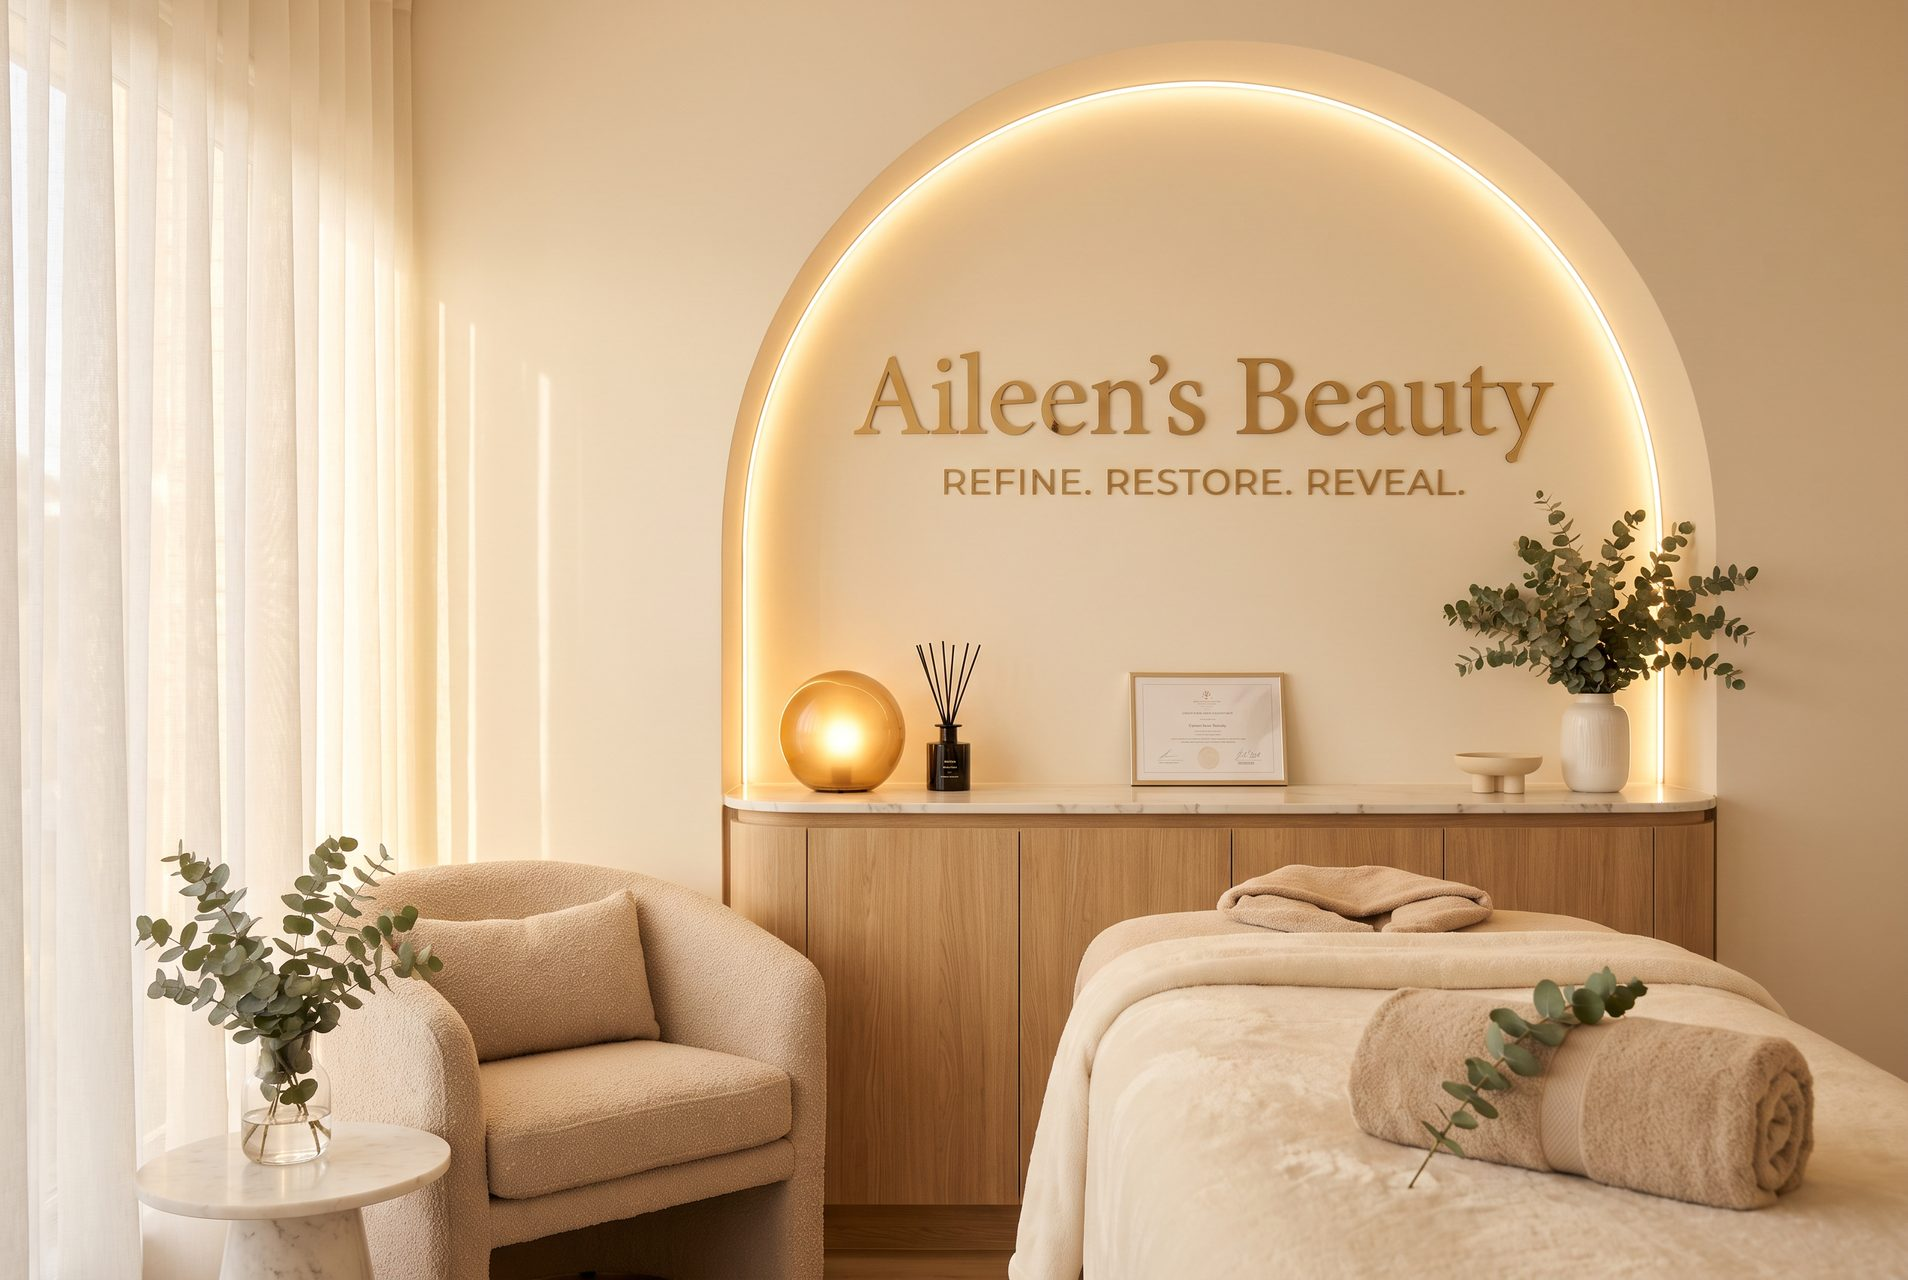
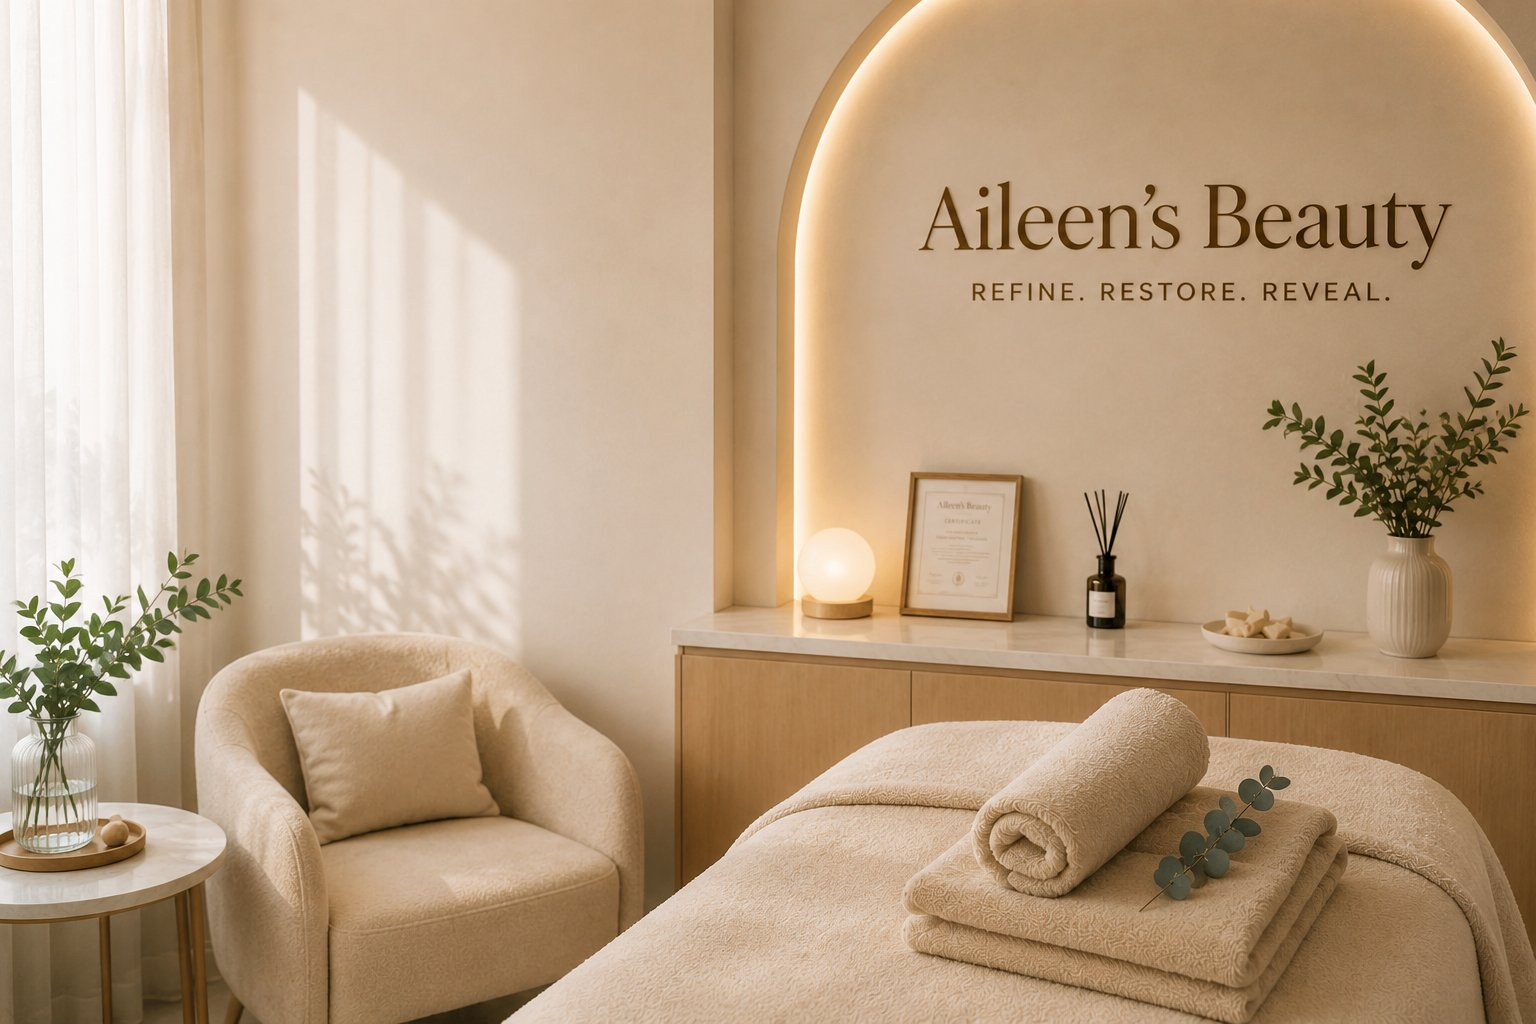
Use real client results and the studio's own photos, fully self-hosted
- Results slider now shows a real Aileen's Beauty client (before/after
  photos from the studio's library), full-width wide format
- 'The Studio' card and booking background use the studio's actual
  branded room photo
- All imagery self-hosted under aileens/assets/img (no CDN hotlinks),
  optimized progressive JPEGs
- Real horizontal logo lockup kept at assets/img/logo-lockup.jpg
- Asset-fetch workflow removed now that its job is done

Claude-Session: https://claude.ai/code/session_018p61CQwo6b1TPoywpLtEmd

diff --git a/aileens/index.html b/aileens/index.html
@@ -713,14 +713,13 @@
 
   /* ---------- before/after ---------- */
   .ba-wrap {
-    display: grid;
-    grid-template-columns: 0.9fr 1.1fr;
-    gap: clamp(48px, 7vw, 110px);
-    align-items: center;
+    display: flex;
+    flex-direction: column;
+    gap: 48px;
   }
   .ba-slider {
     position: relative;
-    aspect-ratio: 3 / 4;
+    aspect-ratio: 1600 / 664;
     overflow: hidden;
     background: var(--sand);
     user-select: none;
@@ -1285,7 +1284,7 @@
 
 <!-- ============ MANIFESTO ============ -->
 <section class="manifesto" aria-label="Our philosophy">
-  <img class="floral floral--tr" src="https://d8j0ntlcm91z4.cloudfront.net/user_3GOOQes5XcbXRDnFW2q49JQyg8X/hf_20260722_080048_4808d057-4b0d-42b6-9eb5-b614883160e6.png" alt="" aria-hidden="true" loading="lazy" width="1024" height="1024">
+  <img class="floral floral--tr" src="assets/img/floral.png" alt="" aria-hidden="true" loading="lazy" width="1024" height="1024">
   <div class="manifesto-inner">
     <p class="label reveal">La Philosophie</p>
     <h2 class="reveal" style="--d:.1s">Some stories deserve<br>a <em>second telling.</em></h2>
@@ -1315,7 +1314,7 @@
   <div class="method-grid">
     <div class="method-media reveal">
       <figure>
-        <img src="https://d8j0ntlcm91z4.cloudfront.net/user_3GOOQes5XcbXRDnFW2q49JQyg8X/hf_20260722_064257_6415575e-0fe7-4506-8f27-3c768eff56ef.png" alt="Macro photograph of a restored natural eyebrow after non-laser tattoo removal at Aileen's Beauty in Campbell, CA" loading="lazy" width="896" height="1200">
+        <img src="assets/img/brow-macro.jpg" alt="Macro photograph of a restored natural eyebrow after non-laser tattoo removal at Aileen's Beauty in Campbell, CA" loading="lazy" width="896" height="1200">
       </figure>
       <figcaption>The finished canvas — natural brow, unwritten</figcaption>
     </div>
@@ -1395,23 +1394,23 @@
     <div>
       <p class="label reveal">03 — The Results</p>
       <h2 class="reveal serif" style="--d:.1s; font-size: clamp(36px, 4.6vw, 62px); margin-top: 22px;">The proof is in<br><em>the reveal.</em></h2>
-      <p class="reveal" style="--d:.2s; margin-top: 24px; color: var(--muted); font-size: 15.5px; max-width: 48ch;">Drag the line. Old, ashen microblading on one side — the same brow, restored and quietly itself, on the other. Every removal plan is built around your pigment, your skin, and your timeline.</p>
+      <p class="reveal" style="--d:.2s; margin-top: 24px; color: var(--muted); font-size: 15.5px; max-width: 48ch;">Drag the line. A real Aileen's Beauty client — old microblading on one side, the same brows restored and quietly their own on the other. Every removal plan is built around your pigment, your skin, and your timeline.</p>
       <div class="reveal" style="--d:.3s; margin-top: 40px;">
         <a class="btn" href="https://www.aileennbeauty.com/portfolio" rel="noopener">View the Full Portfolio</a>
       </div>
     </div>
     <div class="reveal" style="--d:.15s">
       <div class="ba-slider" id="baSlider">
-        <img src="https://d8j0ntlcm91z4.cloudfront.net/user_3GOOQes5XcbXRDnFW2q49JQyg8X/hf_20260722_163659_23df92ff-f7f4-450b-8de4-cf94d2e31240.png" alt="Before: close-up of eyebrows with old blue-grey microbladed tattoo pigment" width="896" height="1200">
+        <img src="assets/img/real-before.jpg" alt="Real client before photo: eyebrows with old microbladed tattoo pigment, at Aileen's Beauty Campbell CA" width="1600" height="664">
         <div class="ba-after-clip" id="baClip">
-          <img src="https://d8j0ntlcm91z4.cloudfront.net/user_3GOOQes5XcbXRDnFW2q49JQyg8X/hf_20260722_163702_d6dc9c97-6168-4a4e-800f-bff7f70b84c5.png" alt="After: the same eyebrows restored to clean, natural brows after non-laser tattoo removal" width="896" height="1200">
+          <img src="assets/img/real-after.jpg" alt="Real client after photo: the same eyebrows fully restored after non-laser tattoo removal at Aileen's Beauty" width="1600" height="664">
         </div>
         <div class="ba-handle" id="baHandle"></div>
         <div class="ba-tag ba-tag--before">Before</div>
         <div class="ba-tag ba-tag--after">After</div>
         <input class="ba-range" id="baRange" type="range" min="0" max="100" value="50" aria-label="Compare before and after eyebrow tattoo removal">
       </div>
-      <p class="ba-note">Illustrative rendering · individual results vary by pigment & skin</p>
+      <p class="ba-note">Real Aileen's Beauty client · results and timelines vary by pigment & skin</p>
     </div>
   </div>
 </section>
@@ -1427,21 +1426,21 @@
       <a class="g-card reveal" href="#book">
         <figure>
           <span class="g-num">I.</span>
-          <img src="https://d8j0ntlcm91z4.cloudfront.net/user_3GOOQes5XcbXRDnFW2q49JQyg8X/hf_20260722_163946_a51873d2-5173-4dfd-ab64-6b5411fb8689.png" alt="Aileen's Beauty private treatment room in Campbell CA with branded wall reading Refine Restore Reveal" loading="lazy" width="896" height="1200">
+          <img src="assets/img/studio-room.jpg" alt="Aileen's Beauty private treatment room in Campbell CA with branded wall reading Refine Restore Reveal" loading="lazy" width="896" height="1200">
         </figure>
         <div class="g-meta"><h3>The Studio</h3><span>Private · Women-Only</span></div>
       </a>
       <a class="g-card reveal" style="--d:.1s" href="#method">
         <figure>
           <span class="g-num">II.</span>
-          <img src="https://d8j0ntlcm91z4.cloudfront.net/user_3GOOQes5XcbXRDnFW2q49JQyg8X/hf_20260722_163706_6dfe5aaa-7fa0-4ef5-a043-6f3fb2cf6400.png" alt="Esthetician performing precision non-laser eyebrow tattoo removal on a client at Aileen's Beauty" loading="lazy" width="896" height="1200">
+          <img src="assets/img/craft.jpg" alt="Esthetician performing precision non-laser eyebrow tattoo removal on a client at Aileen's Beauty" loading="lazy" width="896" height="1200">
         </figure>
         <div class="g-meta"><h3>The Craft</h3><span>By Hand · Under Magnification</span></div>
       </a>
       <a class="g-card reveal" style="--d:.2s" href="https://www.aileennbeauty.com/services" rel="noopener">
         <figure>
           <span class="g-num">III.</span>
-          <img src="https://d8j0ntlcm91z4.cloudfront.net/user_3GOOQes5XcbXRDnFW2q49JQyg8X/hf_20260722_163708_a8fbb4c2-f6cb-4511-9251-aea031982ec7.png" alt="Luxury facial ritual on a treatment bed at Aileen's Beauty women-only spa in Campbell CA" loading="lazy" width="1536" height="2048">
+          <img src="assets/img/rituals.jpg" alt="Luxury facial ritual on a treatment bed at Aileen's Beauty women-only spa in Campbell CA" loading="lazy" width="1536" height="2048">
         </figure>
         <div class="g-meta"><h3>The Rituals</h3><span>Facials · Skin · Body</span></div>
       </a>
@@ -1501,7 +1500,7 @@
     <div class="about-grid">
       <div class="about-media reveal">
         <figure>
-          <img src="https://d8j0ntlcm91z4.cloudfront.net/user_3GOOQes5XcbXRDnFW2q49JQyg8X/hf_20260722_072400_c23aedde-5421-454b-8f63-e3271d1b7c31.png" alt="Portrait evoking the serene, luxurious experience at Aileen's Beauty, Campbell CA" loading="lazy" width="1536" height="2048">
+          <img src="assets/img/portrait.jpg" alt="Portrait evoking the serene, luxurious experience at Aileen's Beauty, Campbell CA" loading="lazy" width="1536" height="2048">
         </figure>
       </div>
       <div class="about-copy">
@@ -1583,7 +1582,7 @@
 
 <!-- ============ FAQ ============ -->
 <section class="section" id="faq" aria-label="Frequently asked questions" style="position: relative; overflow: visible;">
-  <img class="floral floral--bl" src="https://d8j0ntlcm91z4.cloudfront.net/user_3GOOQes5XcbXRDnFW2q49JQyg8X/hf_20260722_080048_4808d057-4b0d-42b6-9eb5-b614883160e6.png" alt="" aria-hidden="true" loading="lazy" width="1024" height="1024">
+  <img class="floral floral--bl" src="assets/img/floral.png" alt="" aria-hidden="true" loading="lazy" width="1024" height="1024">
   <div class="sec-head sec-head--center">
     <p class="label reveal">09 — Questions</p>
     <h2 class="reveal" style="--d:.1s">Asked, <em>answered.</em></h2>
@@ -1618,7 +1617,7 @@
 
 <!-- ============ BOOKING ============ -->
 <section class="booking" id="book" aria-label="Reserve a consultation">
-  <div class="booking-bg" style="background-image: url('https://d8j0ntlcm91z4.cloudfront.net/user_3GOOQes5XcbXRDnFW2q49JQyg8X/hf_20260722_163946_a51873d2-5173-4dfd-ab64-6b5411fb8689.png');" aria-hidden="true"></div>
+  <div class="booking-bg" style="background-image: url('assets/img/studio-room.jpg');" aria-hidden="true"></div>
   <div class="booking-inner">
     <p class="label label--light reveal">10 — Begin</p>
     <h2 class="reveal" style="--d:.1s">Your brows are waiting<br>to be <em>yours again.</em></h2>
